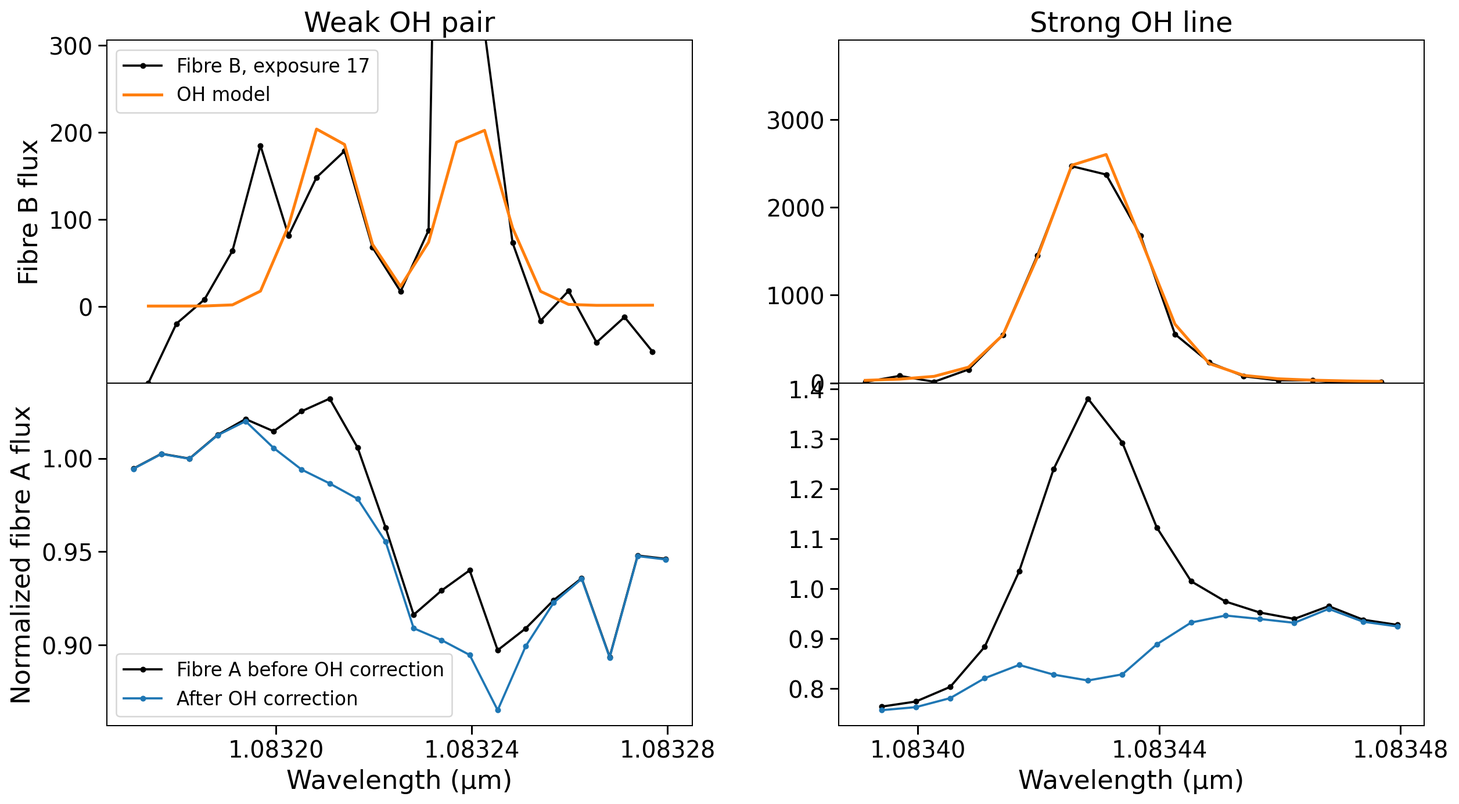
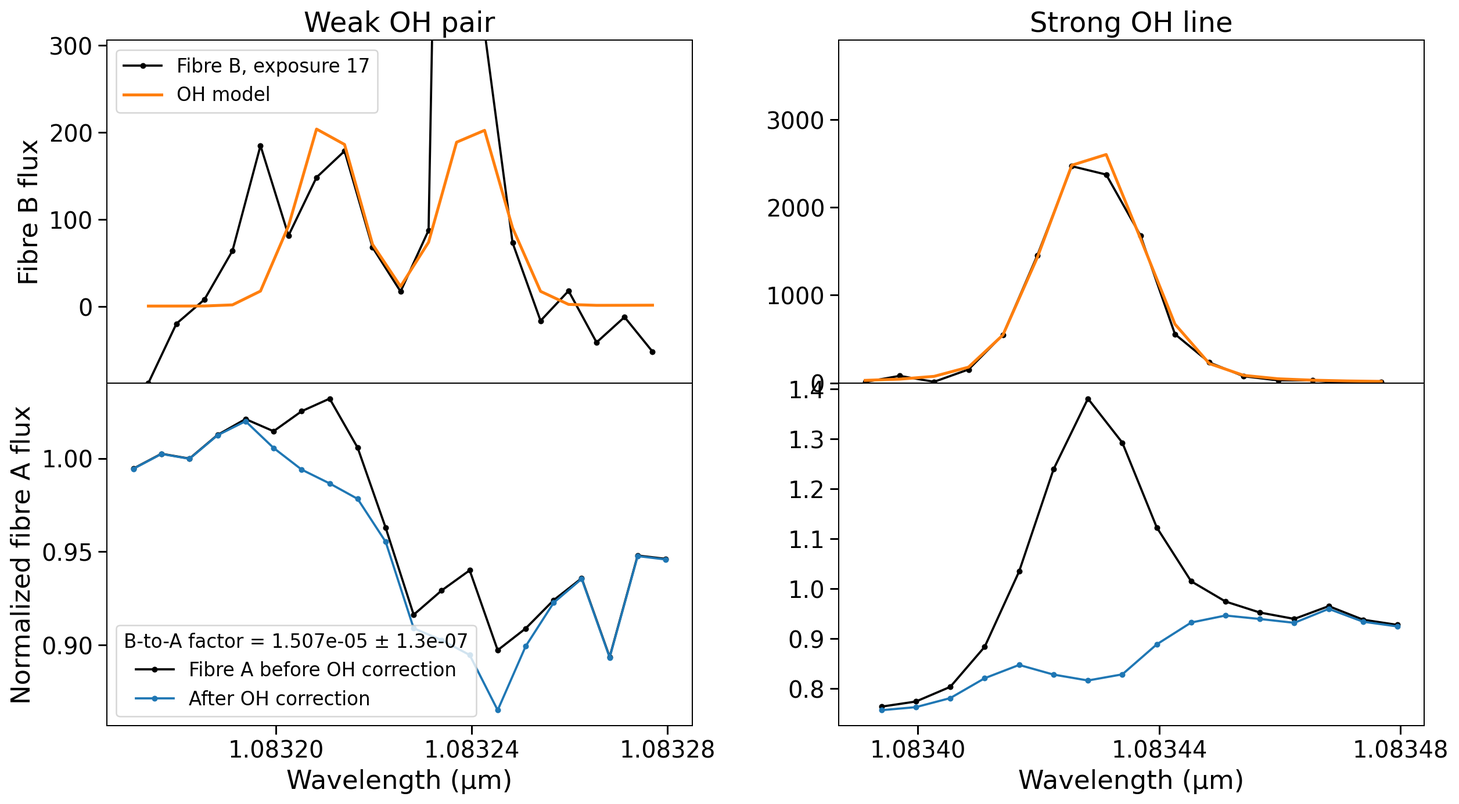
improve He tutorial

Changed region(s): [[0.0621, 0.7762, 0.3416, 0.9004]]

diff --git a/src/exoplore/instruments/carmenes_oh.py b/src/exoplore/instruments/carmenes_oh.py
@@ -195,13 +195,16 @@ def fit_fibre_b(night: dict, order: int, settings: OHFitConfig) -> dict:
 
 
 def transfer_to_fibre_a(night: dict, order: int, sky: dict,
-                        reference_indices: np.ndarray, settings: OHFitConfig) -> dict:
+                        reference_indices: np.ndarray, settings: OHFitConfig,
+                        *, fit_wavelength_shift: bool = True) -> dict:
     """Measure a common B-to-A flux scale and wavelength offset on OOT spectra.
 
     Only the strong OH interval calibrates the transfer. In-transit spectra
     never set the scale. A linear stellar background is fitted independently
     per calibration exposure. The returned uncertainties hold this global
     calibration and master profile fixed; their systematics remain explicit.
+    Matched extractions use ``fit_wavelength_shift=False`` to fit only the
+    common throughput factor and per-exposure background at the fibre-B grid.
     """
     s = settings
     indices = np.asarray(reference_indices,int)
@@ -217,27 +220,30 @@ def transfer_to_fibre_a(night: dict, order: int, sky: dict,
     y=np.concatenate([flux[i,m] for i,m in zip(indices,selected)])
     e=np.concatenate([errors[i,m] for i,m in zip(indices,selected)])
     pivot=np.mean(s.strong_fit_window_nm)
+    offset=2 if fit_wavelength_shift else 1
     def function(dummy,p):
-        return np.concatenate([p[0]*sky['amplitudes'][i]*strong(wave[i,m],p[1])
-            +p[2+2*k]+p[3+2*k]*(wave[i,m]-pivot)
+        shift=p[1] if fit_wavelength_shift else 0.
+        return np.concatenate([p[0]*sky['amplitudes'][i]*strong(wave[i,m],shift)
+            +p[offset+2*k]+p[offset+1+2*k]*(wave[i,m]-pivot)
             for k,(i,m) in enumerate(zip(indices,selected))])
     peak=np.median([np.ptp(flux[i,m])/sky['amplitudes'][i] for i,m in zip(indices,selected)])
-    initial=[max(peak,1e-12),0.]+[v for i,m in zip(indices,selected) for v in (np.median(flux[i,m]),0.)]
-    low=[0.,s.transfer_shift_bounds_nm[0]]+[-np.inf]*(2*len(indices))
-    high=[np.inf,s.transfer_shift_bounds_nm[1]]+[np.inf]*(2*len(indices))
+    initial=[max(peak,1e-12)]+([0.] if fit_wavelength_shift else [])+[v for i,m in zip(indices,selected) for v in (np.median(flux[i,m]),0.)]
+    low=[0.]+([s.transfer_shift_bounds_nm[0]] if fit_wavelength_shift else [])+[-np.inf]*(2*len(indices))
+    high=[np.inf]+([s.transfer_shift_bounds_nm[1]] if fit_wavelength_shift else [])+[np.inf]*(2*len(indices))
     p,cov,good,chi=_robust_fit(function,initial,(low,high),np.arange(len(y)),y,e,s.rejection_sigma)
-    if not s.transfer_shift_bounds_nm[0] < p[1] < s.transfer_shift_bounds_nm[1]:
+    if fit_wavelength_shift and not s.transfer_shift_bounds_nm[0] < p[1] < s.transfer_shift_bounds_nm[1]:
         raise ValueError('Inter-fibre wavelength offset hit its fit boundary')
+    shift=float(p[1]) if fit_wavelength_shift else 0.
     weak=sky['master_parameters']['weak']
-    templates=np.array([strong(w,p[1])+sky['weak_to_strong_peak_ratio']*
-        _sampled_profile(w,np.asarray(weak['centres_nm'])+p[1],weak['sigma_nm'],0.,s.pixel_quadrature_points)
+    templates=np.array([strong(w,shift)+sky['weak_to_strong_peak_ratio']*
+        _sampled_profile(w,np.asarray(weak['centres_nm'])+shift,weak['sigma_nm'],0.,s.pixel_quadrature_points)
         for w in wave])
     model=p[0]*sky['amplitudes'][:,None]*templates
     variance=p[0]**2*sky['amplitude_variance'][:,None]*templates**2
     return dict(model_a=model,conditional_model_variance=variance,
                 corrected_flux=flux-model,conditional_error=np.sqrt(errors**2+variance),
                 transfer_scale=float(p[0]),transfer_scale_error=float(np.sqrt(max(cov[0,0],0))),
-                transfer_shift_nm=float(p[1]),transfer_shift_error_nm=float(np.sqrt(max(cov[1,1],0))),
+                transfer_shift_nm=shift,transfer_shift_error_nm=float(np.sqrt(max(cov[1,1],0))) if fit_wavelength_shift else 0.,
                 transfer_reduced_chi2=chi,transfer_reference_indices=indices.tolist(),
                 rejected_transfer_samples=np.flatnonzero(~good).tolist(),
                 uncertainty_scope='Native A extraction error plus independent B amplitude variance; shared master/transfer covariance excluded',
@@ -245,11 +251,14 @@ def transfer_to_fibre_a(night: dict, order: int, sky: dict,
 
 
 def subtract_matched_fibre_b(night: dict, order: int, sky: dict,
-                            scale, settings: OHFitConfig) -> dict:
-    """Subtract the fitted sky using the user's positive A/B flux multipliers.
+                            scale, settings: OHFitConfig,
+                            *, reference_indices: np.ndarray | None = None) -> dict:
+    """Measure the matched A/B throughput on OOT spectra and subtract the sky.
 
-    A scalar applies to this night; an array supplies one multiplier per
-    exposure. Selecting this mode asserts compatible extraction/flux units.
+    With ``scale=None``, fit a common throughput factor using only OOT
+    fibre-A spectra, holding the fibre-B profile and wavelength offset fixed.
+    Existing explicit scalar/per-exposure scales remain optional overrides.
+    Selecting this mode asserts compatible extraction/flux units.
     Contradictory recorded FOX extraction metadata causes an explicit error.
     The scale and master profile are held fixed in the conditional errors.
     """
@@ -257,6 +266,14 @@ def subtract_matched_fibre_b(night: dict, order: int, sky: dict,
         af,bf=a.get('CARACAL FOX VERSION'),b.get('CARACAL FOX VERSION')
         if (af is None)!=(bf is None) or (af is not None and af!=bf):
             raise ValueError('fiber_b_matched_extraction conflicts with the recorded A/B FOX extraction metadata; provide compatibly extracted spectra or choose fiber_b_calibrated')
+    if scale is None:
+        if reference_indices is None:
+            raise ValueError('Automatic matched-fibre scaling requires out-of-transit indices')
+        result=transfer_to_fibre_a(night,order,sky,reference_indices,settings,
+                                  fit_wavelength_shift=False)
+        result.update(fiber_b_scale=[result['transfer_scale']]*len(night['flux']),
+                      calibration='B-to-A throughput measured jointly on OOT spectra with matched extraction and zero inter-fibre wavelength offset')
+        return result
     flux=night['flux'][:,order]; error=night['error'][:,order]
     factors=np.broadcast_to(np.asarray(scale,float),(len(flux),))
     if not np.isfinite(factors).all() or np.any(factors<=0):

diff --git a/src/exoplore/plotting/carmenes_oh.py b/src/exoplore/plotting/carmenes_oh.py
@@ -1,0 +1,72 @@
+"""OH sky-subtraction diagnostic plots for observed CARMENES helium runs.
+
+Display the measured B-to-A factor with the science-spectrum correction.
+Input correction products are read-only and the figure output must be new.
+"""
+from __future__ import annotations
+
+import json
+from pathlib import Path
+
+import matplotlib.pyplot as plt
+from matplotlib.ticker import MaxNLocator
+import numpy as np
+
+
+def archive(path: Path) -> dict:
+    """Read saved per-exposure arrays without modifying the archive."""
+    with np.load(path) as data:
+        return {key:data[key].copy() for key in data.files}
+
+
+def plot_oh_correction(directory: Path, output: Path, science, number: int) -> None:
+    """Compare the measured sky model and its subtraction from fibre A."""
+    obs=archive(directory/'observations.npz');oh=archive(directory/'oh_model.npz')
+    i=number-1
+    if not 0<=i<len(obs['raw_flux']):
+        raise ValueError('Exposure number lies outside this night')
+    report=json.loads((directory/'oh_report.json').read_text())
+    transfer=report['transfer']
+    if 'fiber_b_scale' in transfer:
+        scale=float(transfer['fiber_b_scale'][i])
+    else:
+        scale=float(transfer['transfer_scale'])
+    scale_label=f'B-to-A factor = {scale:.4g}'
+    if 'transfer_scale_error' in transfer:
+        scale_label+=f" ± {transfer['transfer_scale_error']:.2g}"
+    if 'sky_flux' in oh:
+        sky=oh['sky_flux'][i];sw=oh['master_wave_nm']
+        sky_label=f'Fibre B, exposure {number}'
+        sky_model=oh['model_b'][i]
+    else:
+        sky=oh['master_flux'];sw=oh['master_wave_nm']
+        sky_model=oh['model_b'].sum(axis=0);sky_label='Summed fibre B'
+    w=obs['native_wave_nm'][i]
+    band=(w>=science.continuum_stellar_windows_nm[0][0])&(w<=science.continuum_stellar_windows_nm[0][1])
+    continuum=np.nanmean(obs['raw_flux'][i,band])
+    with plt.rc_context({'font.size':16,'axes.labelsize':18,'legend.fontsize':13}):
+        fig,axes=plt.subplots(2,2,figsize=(14,8),sharex='col',gridspec_kw={'hspace':0})
+        for j,(lo,hi) in enumerate(((1083.17,1083.28),(1083.39,1083.48))):
+            b=(sw>=lo)&(sw<=hi)
+            axes[0,j].plot(sw[b]/1000,sky[b],'k.-',label=sky_label)
+            axes[0,j].plot(sw[b]/1000,sky_model[b],color='tab:orange',lw=2,label='OH model')
+            # Isolated sky-detector spikes remain in the data. Limit the view
+            # to the resolved fitted line rather than autoscaling to spikes.
+            axes[0,j].set_ylim(min(0,float(np.min(sky[b]))),1.5*float(np.max(sky_model[b])))
+            a=(w>=lo)&(w<=hi)
+            axes[1,j].plot(w[a]/1000,obs['raw_flux'][i,a]/continuum,'k.-',label='Fibre A before OH correction')
+            corrected=obs['raw_flux'][i]-oh['model_a'][i]
+            axes[1,j].plot(w[a]/1000,corrected[a]/continuum,'.-',color='tab:blue',label='After OH correction')
+            axes[1,j].set_xlabel('Wavelength (μm)')
+            for ax in axes[:,j]:
+                ax.ticklabel_format(axis='x',useOffset=False);ax.xaxis.set_major_locator(MaxNLocator(3));ax.tick_params(length=6,width=1.2)
+            axes[0,j].set_title('Weak OH pair' if j==0 else 'Strong OH line')
+        axes[0,0].set_ylabel('Fibre B flux');axes[1,0].set_ylabel('Normalized fibre A flux')
+        axes[0,0].legend();axes[1,0].legend(title=scale_label,title_fontsize=13)
+        fig.subplots_adjust(wspace=.25,left=.09,right=.99,bottom=.11,top=.93)
+        try:
+            with Path(output).open('xb') as stream:
+                fig.savefig(stream,format=Path(output).suffix.lstrip('.'),dpi=180,bbox_inches='tight')
+        finally:
+            plt.close(fig)
+

diff --git a/scripts/plot_carmenes_palle2020.py b/scripts/plot_carmenes_palle2020.py
@@ -78,44 +78,9 @@ def science_config(config):
 
 
 def sky_plot(directory,output,science,number):
-    """Compare the measured sky model and its subtraction from fibre A."""
-    obs=archive(directory/'observations.npz');oh=archive(directory/'oh_model.npz')
-    i=number-1
-    if not 0<=i<len(obs['raw_flux']):
-        raise ValueError('Exposure number lies outside this night')
-    report=json.loads((directory/'oh_report.json').read_text())
-    metadata=report.get('sky',report.get('master'))
-    if 'sky_flux' in oh:
-        sky=oh['sky_flux'][i];sw=oh['master_wave_nm']
-        sky_label=f'Fibre B, exposure {number}'
-        sky_model=oh['model_b'][i]
-    else:
-        sky=oh['master_flux'];sw=oh['master_wave_nm']
-        sky_model=oh['model_b'].sum(axis=0);sky_label='Summed fibre B'
-    w=obs['native_wave_nm'][i]
-    band=(w>=science.continuum_stellar_windows_nm[0][0])&(w<=science.continuum_stellar_windows_nm[0][1])
-    continuum=np.nanmean(obs['raw_flux'][i,band])
-    with plt.rc_context({'font.size':16,'axes.labelsize':18,'legend.fontsize':13}):
-        fig,axes=plt.subplots(2,2,figsize=(14,8),sharex='col',gridspec_kw={'hspace':0})
-        for j,(lo,hi) in enumerate(((1083.17,1083.28),(1083.39,1083.48))):
-            b=(sw>=lo)&(sw<=hi)
-            axes[0,j].plot(sw[b]/1000,sky[b],'k.-',label=sky_label)
-            axes[0,j].plot(sw[b]/1000,sky_model[b],color='tab:orange',lw=2,label='OH model')
-            # Isolated sky-detector spikes remain in the data. Limit the view
-            # to the resolved fitted line rather than autoscaling to spikes.
-            axes[0,j].set_ylim(min(0,float(np.min(sky[b]))),1.5*float(np.max(sky_model[b])))
-            a=(w>=lo)&(w<=hi)
-            axes[1,j].plot(w[a]/1000,obs['raw_flux'][i,a]/continuum,'k.-',label='Fibre A before OH correction')
-            corrected=obs['raw_flux'][i]-oh['model_a'][i]
-            axes[1,j].plot(w[a]/1000,corrected[a]/continuum,'.-',color='tab:blue',label='After OH correction')
-            axes[1,j].set_xlabel('Wavelength (μm)')
-            for ax in axes[:,j]:
-                ax.ticklabel_format(axis='x',useOffset=False);ax.xaxis.set_major_locator(MaxNLocator(3));ax.tick_params(length=6,width=1.2)
-            axes[0,j].set_title('Weak OH pair' if j==0 else 'Strong OH line')
-        axes[0,0].set_ylabel('Fibre B flux');axes[1,0].set_ylabel('Normalized fibre A flux')
-        axes[0,0].legend();axes[1,0].legend()
-        fig.subplots_adjust(wspace=.25,left=.09,right=.99,bottom=.11,top=.93)
-        save(fig,output)
+    """Use the standard CARMENES OH plot, including its A/B calibration."""
+    from exoplore.plotting.carmenes_oh import plot_oh_correction
+    plot_oh_correction(directory,output,science,number)
 
 
 def steps(directory,output_directory,cfg,science):

diff --git a/src/exoplore/pipelines/palle2020.py b/src/exoplore/pipelines/palle2020.py
@@ -150,7 +150,7 @@ def run_palle2020(config, *, pilot: bool=False, pilot_label: str='pilot') -> Pat
         )
         settings=OHFitConfig(**choices['oh_fit']['profile'])
         sky_result=fit_fibre_b(night,order,settings)
-        transfer=(subtract_matched_fibre_b(night,order,sky_result,choices['oh_fit']['fiber_b_scale'],settings)
+        transfer=(subtract_matched_fibre_b(night,order,sky_result,choices['oh_fit'].get('fiber_b_scale'),settings,reference_indices=outside)
                   if treatment=='fiber_b_matched_extraction' else
                   transfer_to_fibre_a(night,order,sky_result,outside,settings))
         raw=transfer['corrected_flux'].copy();error=transfer['conditional_error'].copy()
@@ -257,6 +257,9 @@ def run_palle2020(config, *, pilot: bool=False, pilot_label: str='pilot') -> Pat
             corrected_error=errors,oh_mask=masked,oh_treated_flux=raw,
             oh_treated_error=error,
             telluric_transmission=np.array([c['transmittance'] for c in corrections]))
+    if uses_sky_fibre(treatment):
+        from exoplore.plotting.carmenes_oh import plot_oh_correction
+        plot_oh_correction(output,output/'oh_correction.png',science,int(np.argmin(abs(phase)))+1)
     result=prepare_carmenes_transmission(waves,flux,errors,night['berv_kms'],rv,science)
     from exoplore.pipelines.helium_noise_propagation import carmenes_coadd_covariance, carmenes_lightcurve_covariance
     covariance=carmenes_coadd_covariance(waves,flux,errors,night['berv_kms'],rv,science,result)

diff --git a/src/exoplore/config/helium_oh.py b/src/exoplore/config/helium_oh.py
@@ -57,10 +57,10 @@ def validate_oh_treatment(config) -> str:
             if (isinstance(threshold, bool) or not isinstance(threshold, (int, float))
                     or not math.isfinite(threshold) or threshold <= 0):
                 raise ValueError('fiber_a_oot_profile requires a positive oh_fit.maximum_anchor_change_sigma')
-        if treatment == 'fiber_b_matched_extraction':
+        if treatment == 'fiber_b_matched_extraction' and fit.get('fiber_b_scale') is not None:
             scale = fit.get('fiber_b_scale')
             values = scale if isinstance(scale, list) else [scale]
             if not values or any(isinstance(v, bool) or not isinstance(v, (int,float))
                                  or not math.isfinite(v) or v <= 0 for v in values):
-                raise ValueError('fiber_b_matched_extraction requires oh_fit.fiber_b_scale: a positive B-to-A flux multiplier, or one multiplier per exposure, calibrated for these observations. There is no default scaling factor.')
+                raise ValueError('Optional oh_fit.fiber_b_scale must be a positive B-to-A flux multiplier or one positive multiplier per exposure. Omit it to measure the factor from out-of-transit spectra.')
     return treatment

diff --git a/tests/test_helium_public_routes.py b/tests/test_helium_public_routes.py
@@ -56,12 +56,11 @@ class HeliumPolicyTests(unittest.TestCase):
         with self.assertRaisesRegex(ValueError,'oot_profile settings'):
             validate_oh_treatment(cfg)
 
-    def test_existing_choices_and_required_matched_scale(self):
+    def test_existing_choices_and_optional_matched_scale(self):
         for mode in ('ignore','mask','fiber_b_calibrated','fiber_b_matched_extraction'):
             cfg=policy_config();cfg.pipeline.oh_treatment=mode
             if mode=='fiber_b_matched_extraction':
-                with self.assertRaisesRegex(ValueError,'fiber_b_scale'):
-                    validate_oh_treatment(cfg)
+                self.assertEqual(validate_oh_treatment(cfg),mode)
                 cfg.pipeline.palle2020['oh_fit']['fiber_b_scale']=[.88,.89]
             self.assertEqual(validate_oh_treatment(cfg),mode)
 

diff --git a/docs/tutorial.md b/docs/tutorial.md
@@ -1412,7 +1412,7 @@ inputs/CARMENES_NIR/GJ3470b/20181226/
 
 EXoPLORE reads the wavelength, flux and uncertainty arrays directly from these files, pairs the two fibres and orders the exposures by their recorded BJD. It also writes its usual per-order reference-night FITS products. The helium triplet falls in NIR order **7**, using zero-based indices. The analysis selects this order through `instrument.order_indices`.
 
-The complete reference files for this tutorial are {download}`the analysis JSON <../configs/gj3470b_carmenes_palle2020_tutorial.json>` and {download}`the adopted system parameters <../planet_params/GJ3470b_tutorial.json>`. The JSON includes a description of every setting. Its ephemeris and optical contacts define the timing used in this example. EXoPLORE calculates the exposure membership internally.
+The reference files are included in the EXoPLORE repository: `configs/gj3470b_carmenes_palle2020_tutorial.json` contains the analysis configuration and `planet_params/GJ3470b_tutorial.json` contains the adopted system parameters. The JSON includes a description of every setting. Its ephemeris and optical contacts define the timing used in this example. EXoPLORE calculates the exposure membership internally.
 
 ### Step 2: Select the preparation
 
@@ -1439,7 +1439,7 @@ The main choices are:
 
 The downloaded JSON also contains `pipeline.palle2020`, with the input directory, molecfit fitting intervals, continuum band and OH settings. We can adjust `input_directory` to the location of the spectra and `molecfit.esorex` to the ESO recipe executable. The example uses `esorex` from the executable search path. The [ESO molecfit page](https://www.eso.org/sci/software/pipelines/molecfit/) provides the installation and recipe documentation.
 
-With these choices, the helium signal is measured directly after division by the stellar reference. Molecular retrieval is disabled. We can inspect the selected analysis with:
+We can inspect the selected analysis with:
 
 ```bash
 python scripts/run_exoplore.py configs/gj3470b_carmenes_palle2020_tutorial.json
@@ -1447,7 +1447,7 @@ python scripts/run_exoplore.py configs/gj3470b_carmenes_palle2020_tutorial.json
 
 ### Step 3: Correct the telluric absorption and OH emission
 
-Water produces absorption lines in this order, while OH produces sky emission. Molecfit fits the water transmission separately for each exposure. The example uses the wavelength-dependent Gaussian and Lorentzian instrumental widths from [Nagel et al. (2023)](https://doi.org/10.1051/0004-6361/202346524), evaluated on the fitting grid. The science spectra retain their native pixel sampling.
+Water produces absorption lines in this order, while OH produces sky emission. Molecfit fits the water transmission separately for each exposure. The example uses the wavelength-dependent Gaussian and Lorentzian instrumental widths from [Nagel et al. (2023)](https://doi.org/10.1051/0004-6361/202346524), evaluated on the fitting grid.
 
 We first fit one exposure:
 
@@ -1471,21 +1471,21 @@ python scripts/plot_carmenes_palle2020.py exposure \
 Molecfit correction in three water-line intervals of the first GJ 3470 b exposure. Top: observation and fitted model. Middle: locally normalized spectrum before and after correction. Bottom: residuals divided by the extraction uncertainty. The stronger water lines are substantially reduced. Produced with `plot_carmenes_palle2020.py exposure`.
 ```
 
-The OH model follows the profile prescription of Pallé et al. (2020): a Voigt profile for the strong line and two Gaussians sharing width and amplitude for the weak pair. Fibre B determines the profiles and their changing strength throughout the night. The sky model is then expressed in fibre-A flux units and subtracted.
+Fibre A contains both the stellar spectrum and OH emission from the Earth's atmosphere. Fibre B observes the sky, so it helps us measure the OH emission separately. To subtract it from fibre A, we need its line shape, its intensity in each exposure, and the factor that converts the measured fibre-B flux into fibre-A flux. The emission model follows Pallé et al. (2020): a Voigt profile for the strong OH line and two Gaussians sharing width and amplitude for the weak pair.
 
-Pallé et al. (2020) used matched extractions for both fibres and measured an A/B factor of 0.88. The first step in assessing the OH correction should be to check whether fibre A and fibre B have been extracted consistently. For this tutorial, we do not have fibre-A spectra extracted in the same way as fibre B. If these products are available for your observations, EXoPLORE provides `fiber_b_matched_extraction`, together with the A/B scaling factor supplied in `oh_fit.fiber_b_scale`. This factor should be determined for your observations.
+Pallé et al. (2020) used matched extractions for both fibres and measured an A/B factor of 0.88. The first step in assessing the OH correction should be to check whether fibre A and fibre B have been extracted consistently. For this tutorial, we do not have fibre-A spectra extracted in the same way as fibre B. If these products are available for your observations, select `fiber_b_matched_extraction`. EXoPLORE measures the A/B factor from the strong OH line in the out-of-transit spectra and applies it throughout the night. The measured factor is saved in `oh_report.json` and shown in the legend of `oh_correction.png`.
 
-With the files available here, `fiber_b_calibrated` determines the transfer between fibres from the strong OH line in out-of-transit fibre A. The available choices are:
+With the files available here, the available choices are:
 
-| `oh_treatment` | What EXoPLORE does |
+| `oh_treatment` | How the OH emission is treated |
 |---|---|
-| `ignore` | Retains the OH emission. |
-| `mask` | Excludes windows located from `oh_catalogue_nm` and widened by `oh_mask_halfwidth_nm`. |
-| `fiber_b_matched_extraction` | Subtracts the fibre-B model with the required `oh_fit.fiber_b_scale` (a number applies to the night, a list supplies one value per exposure). |
-| `fiber_b_calibrated` | Calibrates the fibre-B profile against out-of-transit fibre A. |
-| `fiber_a_oot_profile` | Fits the strong-line shape jointly with the stellar spectrum in out-of-transit fibre A (fibre B supplies the changing sky amplitude). |
+| `ignore` | We leave the OH emission in the spectra. Any overlap with planetary helium remains in the transmission spectrum. |
+| `mask` | We exclude the pixels around the OH lines from the analysis. This also removes any planetary signal falling on those pixels. The JSON specifies the OH wavelengths in `oh_catalogue_nm` and the half-width of each excluded interval in `oh_mask_halfwidth_nm`. |
+| `fiber_b_matched_extraction` | For fibres extracted in the same way, we measure the OH line shape and its changing intensity in fibre B. EXoPLORE measures the A/B scaling factor from out-of-transit fibre A, then subtracts the scaled emission from every science exposure. This choice requires matched extractions, which are unavailable for this tutorial. |
+| `fiber_b_calibrated` | For differently extracted fibres, we still use the OH line shape measured in fibre B. We fit its strength and wavelength offset against the strong OH line in out-of-transit fibre A, then apply that calibration throughout the night. Fibre B tracks how the sky intensity changes between exposures. This is the choice used above. |
+| `fiber_a_oot_profile` | We measure the strong OH line shape directly in out-of-transit fibre A. We fit the stellar spectrum at the same time to separate stellar absorption from sky emission. Fibre B tracks the changing OH intensity, allowing us to subtract the fitted emission during transit as well. The weak OH pair keeps the correction from `fiber_b_calibrated`. We explore this alternative in Step 6. |
 
-The matched-extraction choice requires compatible A/B products. The two calibrated choices are EXoPLORE extensions for the supplied extractions. Their fitting intervals, width bounds and acceptance thresholds are given in the JSON.
+Both `fiber_b_calibrated` and `fiber_a_oot_profile` are EXoPLORE extensions for the differently extracted spectra available here. Their fitting intervals, width bounds and acceptance thresholds are given in the JSON.
 
 ### Step 4: Prepare the night
 
@@ -1511,7 +1511,7 @@ python scripts/plot_carmenes_palle2020.py sky \
 :width: 100%
 :align: center
 
-OH correction in the weak pair and strong sky line. The upper panels compare fibre B with its fitted emission model. The lower panels show fibre A before and after subtraction. The two fibres have different flux conventions, so their vertical scales differ. Produced with `plot_carmenes_palle2020.py sky`.
+OH correction in the weak pair and strong sky line. The upper panels compare fibre B with its fitted emission model. The lower panels show fibre A before and after subtraction, with the B-to-A factor in the legend. The two fibres have different flux conventions, so their vertical scales differ. Produced by the run as `oh_correction.png`, or with `plot_carmenes_palle2020.py sky`.
 ```
 
 Following Pallé et al. (2020), each corrected spectrum is normalized by its mean flux between 1.0815962 and 1.0827624 µm. EXoPLORE then aligns the spectra in the stellar frame, computes the arithmetic-mean out-of-transit reference and divides every exposure by it:
@@ -1585,7 +1585,7 @@ The OH emission overlaps the red wing of the planetary helium line. With consist
 
 In the calculation above, the OH profile is measured in fibre B and calibrated against fibre A. For this comparison, we instead fit the strong OH profile directly in the out-of-transit fibre-A spectra, together with a common stellar spectrum. The stellar spectrum is aligned in the stellar frame and the OH emission in the Earth frame. Fibre B still supplies the OH intensity for every exposure, including during transit. The weak OH pair retains the previous correction.
 
-We can follow this comparison using the {download}`alternative OH configuration <../configs/gj3470b_carmenes_palle2020_oot_tutorial.json>`. It selects `fiber_a_oot_profile` and saves the result in a separate `night_oot_profile` directory:
+We can follow this comparison using `configs/gj3470b_carmenes_palle2020_oot_tutorial.json`, also included in the repository. It selects `fiber_a_oot_profile` and saves the result in a separate `night_oot_profile` directory:
 
 ```bash
 python -u scripts/run_exoplore.py \
